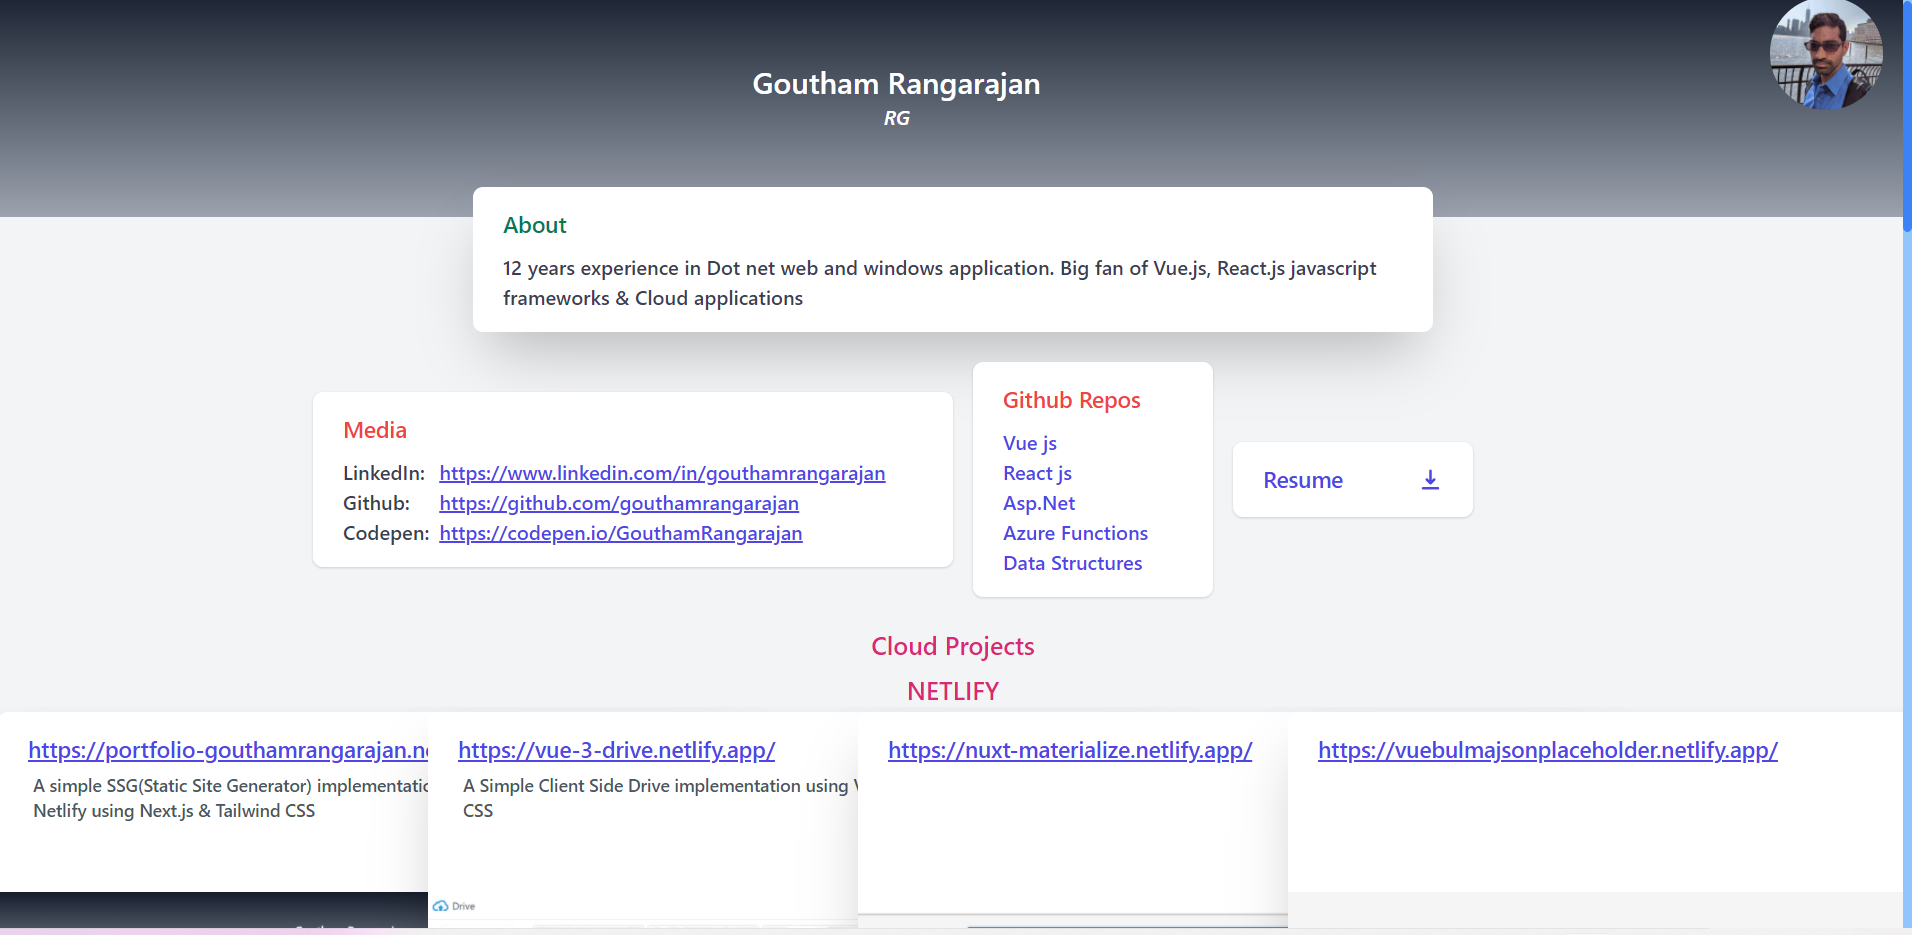
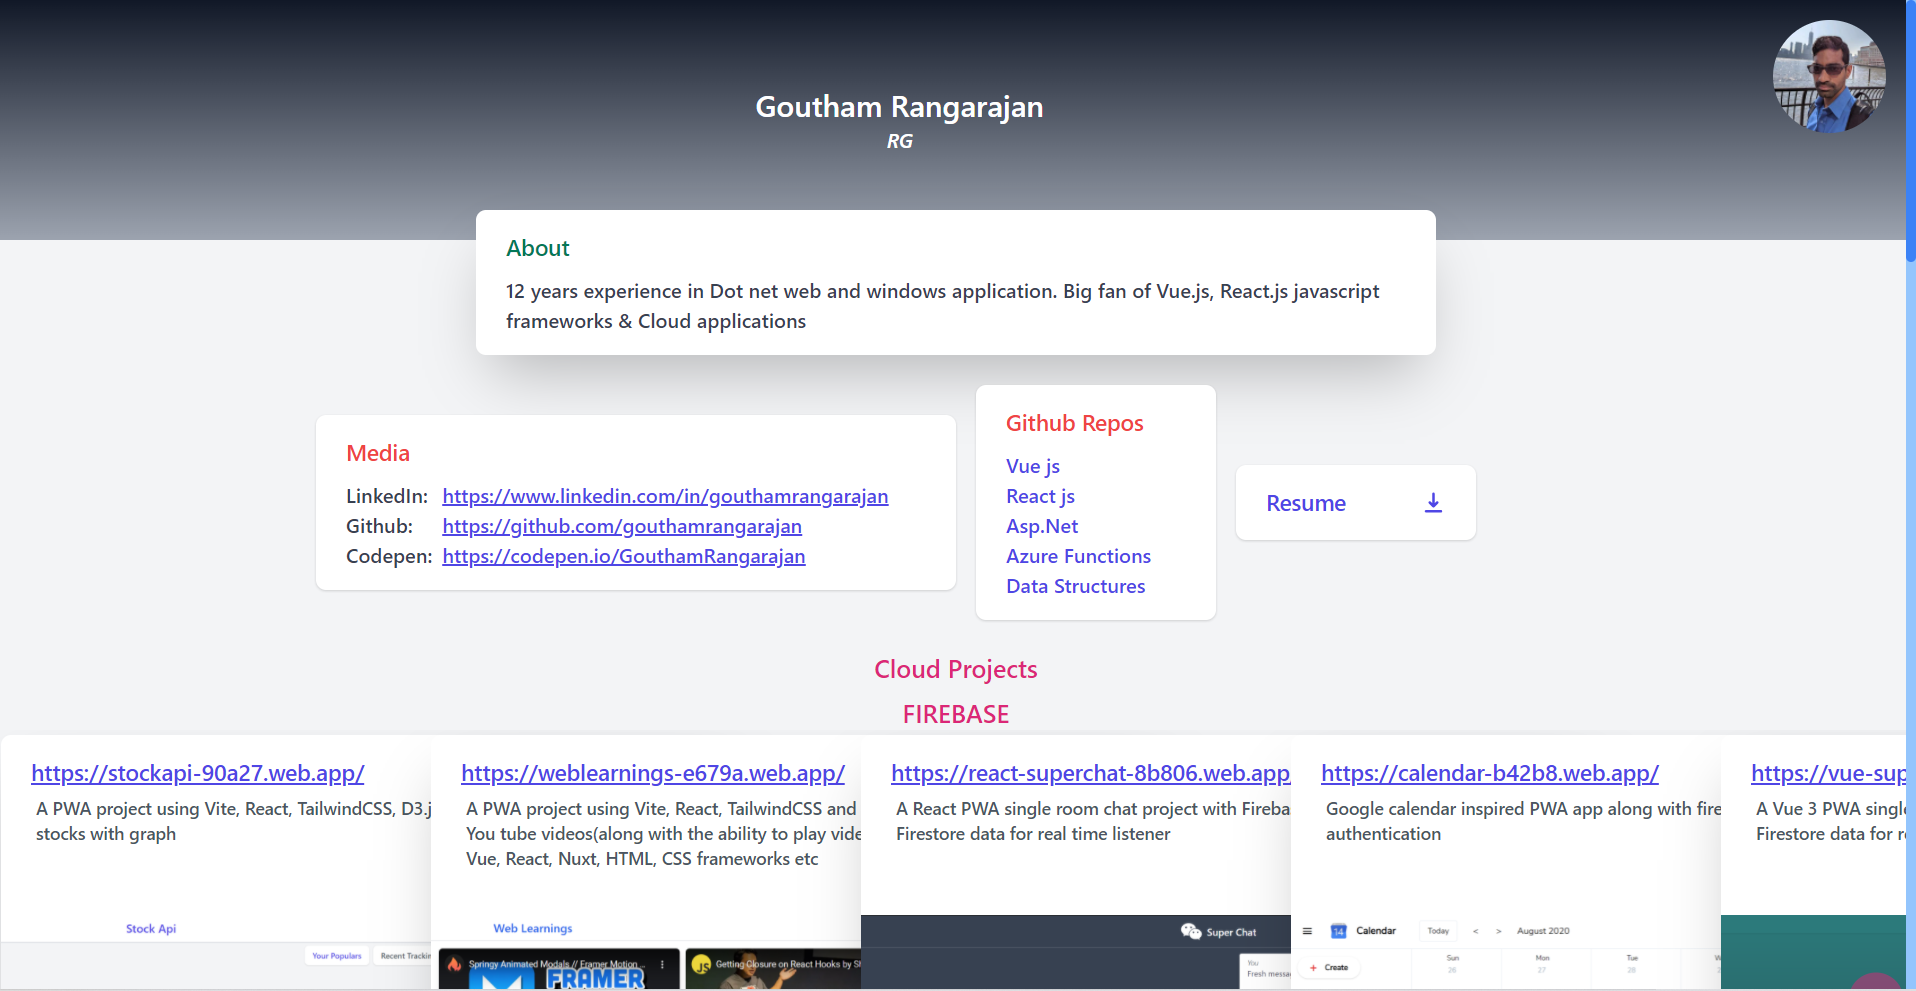
changes to portfolio stagger animation of items,reorder & removed old projects

diff --git a/my-portfolio/pages/index.tsx b/my-portfolio/pages/index.tsx
@@ -50,20 +50,18 @@ const Home: NextPage<homePropType> = ({ data: { info } }) => {
           </SecondRowLayout>
           <ScrollRowLayout title="Cloud Projects" centered></ScrollRowLayout>
           <div className="-mt-6" key={3}></div>
-          {Object.keys(info.cloud)
-            .sort((a, b) => (a > b ? -1 : 1))
-            .map((el) => (
-              <ScrollRowLayout
-                title={el.toUpperCase()}
-                key={el}
-                centered={getProjectsLength(info.cloud, el) <= 3}
-              >
-                <ProjectCardList
-                  info={getProjects(info.cloud, el)}
-                  type="CLOUD"
-                ></ProjectCardList>
-              </ScrollRowLayout>
-            ))}
+          {Object.keys(info.cloud).map((el) => (
+            <ScrollRowLayout
+              title={el.toUpperCase()}
+              key={el}
+              centered={getProjectsLength(info.cloud, el) <= 3}
+            >
+              <ProjectCardList
+                info={getProjects(info.cloud, el)}
+                type="CLOUD"
+              ></ProjectCardList>
+            </ScrollRowLayout>
+          ))}
           <ScrollRowLayout
             title="GITHUB"
             subtitle="Recent collection in React.js, Vue.js & Asp .Net"

diff --git a/my-portfolio/components/ScrollRowLayout.tsx b/my-portfolio/components/ScrollRowLayout.tsx
@@ -55,11 +55,10 @@ const ScrollRowLayout: NextComponentType<
         {subtitle}
       </span>
       <div
-        className={`flex -space-x-40 md:-space-x-64 p-1 overflow-x-auto lg:overflow-x-hidden w-full
-                    scrollbar-none
-                     ${
-                       centered && windowWidth > 1023 ? "justify-center" : ""
-                     }  `}
+        className={`flex -space-x-40 md:-space-x-64 p-1 overflow-x-auto lg:overflow-x-hidden w-full scrollbar-none
+                    ${
+                      centered && windowWidth > 1023 ? "justify-center" : ""
+                    }  `}
         ref={scrollEl as LegacyRef<HTMLDivElement>}
       >
         {children}

diff --git a/my-portfolio/utils/animationVariants.ts b/my-portfolio/utils/animationVariants.ts
@@ -7,8 +7,8 @@ export const staggerParent = {
     opacity: 1,
     y: 0,
     transition: {
-      staggerChildren: 0.4,
       duration: 0.3,
+      staggerChildren: 0.4,
     },
   },
 };
@@ -20,5 +20,10 @@ export const staggerChild = {
   active: {
     opacity: 1,
     y: 0,
+    transition: {
+      type: "spring",
+      damping: 7,
+      stiffness: 50,
+    },
   },
 };
